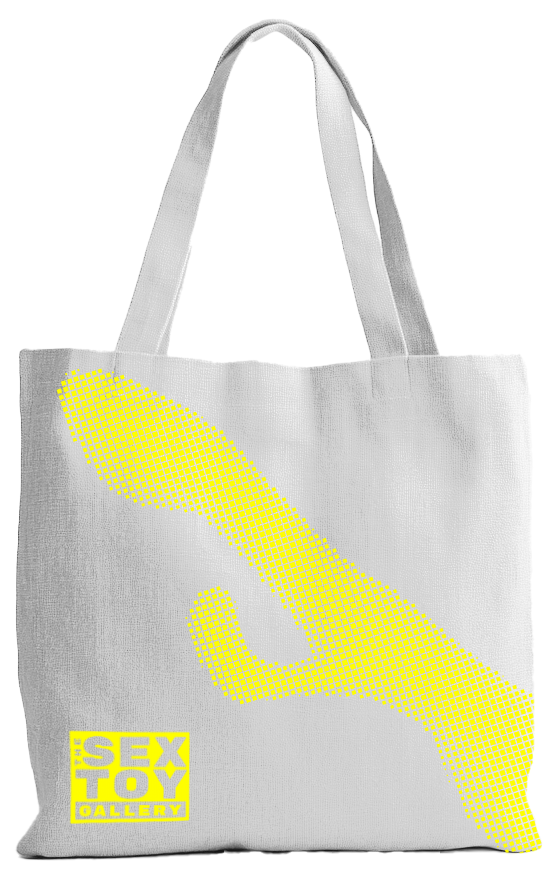
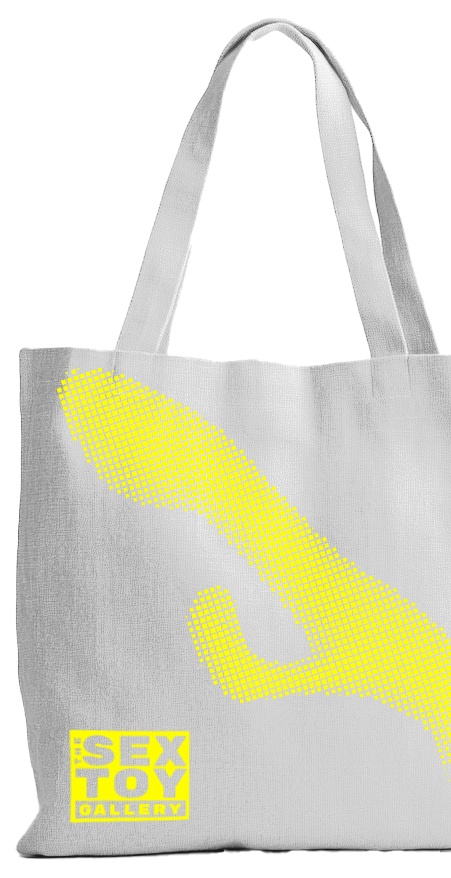
mock_ups_almost

diff --git a/src/views/projects/ToysView.vue b/src/views/projects/ToysView.vue
@@ -50,8 +50,8 @@ import FooterCom from '@/components/universal/FooterCom.vue';
                     <source src="/videos/toysTweaks.mp4" type="video/mp4">
                 </video>
             </div>
-            <div class="justify-items-center sm:row-start-1 sm:col-span-2 sm:col-start-8 sm:h-[10vw] sm:row-span-1 sm:row-start-[25] sm:content-center">
-            <img src="/images/toys/w-tote.png" class="sm:mt-[0%] sm:w-[90%] object-cover"/>
+            <div class="justify-items-center sm:row-start-1 sm:col-span-2 sm:col-start-9 sm:h-[10vw] sm:row-span-1 sm:row-start-[25] sm:content-center">
+            <img src="/images/toys/w-tote.png" class="sm:mt-[0%] sm:w-[100%] object-cover"/>
             </div>
             <div class="justify-items-center sm:row-start-1 sm:col-span-2 sm:col-start-5 sm:h-[10vw] sm:row-span-1 sm:row-start-[27] sm:content-center">
             <img src="/images/toys/toysDildPoster.jpg" class="sm:mt-[0%] sm:w-[90%] object-cover"/>
